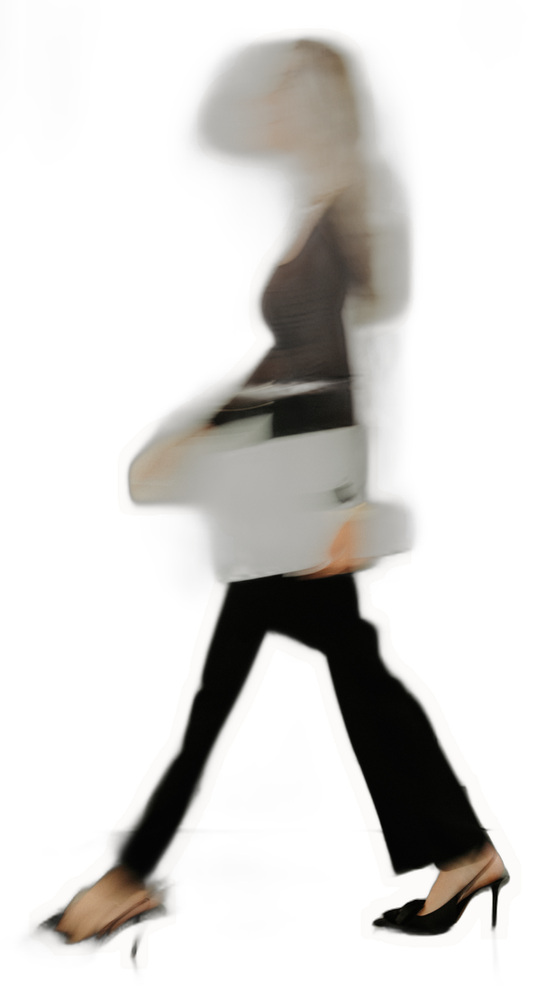
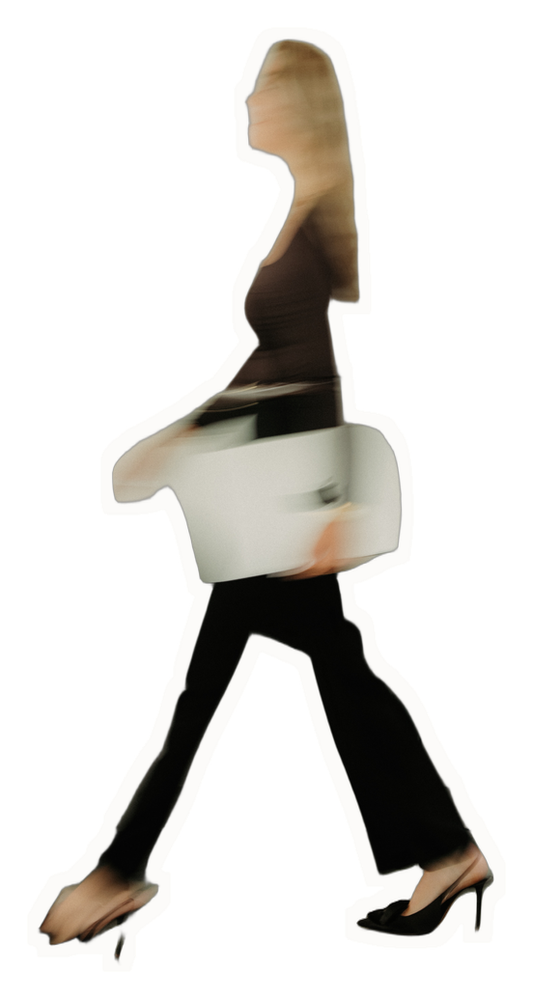
honey v2: every cut out from BiRefNet in its own process, manifest written again, disco at full width
Claude-Session: https://claude.ai/code/session_01CwL7sdau95CiZ3kYi3DkV3

Changed region(s): [[0.06, 0.031, 0.9306, 0.961], [0.5704, 0.651, 0.6604, 0.775]]

diff --git a/state/prototypes/honeyitshandled/site-v2/index.html b/state/prototypes/honeyitshandled/site-v2/index.html
@@ -146,10 +146,10 @@
 <section class="eli" id="elise" data-tone="blue" aria-labelledby="h-eli">
   <div class="eli-stage" data-eli>
     <h2 id="h-eli" class="eli-h">Type A, so you don’t have to be.</h2>
-    <figure class="stk s-book" style="--d:.9;--r:-5deg"><img class="stk-i" src="media/elise-book-560.webp" srcset="media/elise-book-560.webp 384w, media/elise-book-1000.webp 685w" sizes="(max-width: 700px) 46vw, 30vw" width="685" height="1000" alt="Elise Laeven with a book balanced on her head, a laptop in one hand and a glass and a pair of heels in the other" loading="lazy" decoding="async"></figure>
-    <figure class="stk s-phone" style="--d:.5;--r:4deg"><img class="stk-i" src="media/elise-phone-560.webp" srcset="media/elise-phone-560.webp 450w, media/elise-phone-1000.webp 803w" sizes="(max-width: 700px) 40vw, 22vw" width="803" height="1000" alt="Elise on her phone with a gold folder under her arm" loading="lazy" decoding="async"></figure>
-    <figure class="stk s-sit" style="--d:.7;--r:-2deg"><img class="stk-i" src="media/elise-sit-560.webp" srcset="media/elise-sit-560.webp 429w, media/elise-sit-1000.webp 766w" sizes="(max-width: 700px) 42vw, 24vw" width="766" height="1000" alt="Elise sitting, smiling" loading="lazy" decoding="async"></figure>
-    <figure class="stk s-walk" style="--d:.35;--r:6deg"><img class="stk-i" src="media/elise-walk-560.webp" srcset="media/elise-walk-560.webp 306w, media/elise-walk-1000.webp 546w" sizes="(max-width: 700px) 30vw, 16vw" width="546" height="1000" alt="Elise walking past in a blur" loading="lazy" decoding="async"></figure>
+    <figure class="stk s-book" style="--d:.9;--r:-5deg"><img class="stk-i" src="media/elise-book-560.webp" srcset="media/elise-book-560.webp 385w, media/elise-book-1000.webp 688w" sizes="(max-width: 700px) 46vw, 30vw" width="688" height="1000" alt="Elise Laeven with a book balanced on her head, a laptop in one hand and a glass and a pair of heels in the other" loading="lazy" decoding="async"></figure>
+    <figure class="stk s-phone" style="--d:.5;--r:4deg"><img class="stk-i" src="media/elise-phone-560.webp" srcset="media/elise-phone-560.webp 451w, media/elise-phone-1000.webp 805w" sizes="(max-width: 700px) 40vw, 22vw" width="805" height="1000" alt="Elise on her phone with a gold folder under her arm" loading="lazy" decoding="async"></figure>
+    <figure class="stk s-sit" style="--d:.7;--r:-2deg"><img class="stk-i" src="media/elise-sit-560.webp" srcset="media/elise-sit-560.webp 433w, media/elise-sit-1000.webp 773w" sizes="(max-width: 700px) 42vw, 24vw" width="773" height="1000" alt="Elise sitting, smiling" loading="lazy" decoding="async"></figure>
+    <figure class="stk s-walk" style="--d:.35;--r:6deg"><img class="stk-i" src="media/elise-walk-560.webp" srcset="media/elise-walk-560.webp 298w, media/elise-walk-1000.webp 533w" sizes="(max-width: 700px) 30vw, 16vw" width="533" height="1000" alt="Elise walking past in a blur" loading="lazy" decoding="async"></figure>
   </div>
   <div class="wrap eli-g">
     <div class="eli-t">
@@ -167,7 +167,7 @@
 <section class="doors" id="doors" data-tone="dark" aria-labelledby="h-doors">
   <div class="doors-pin">
     <div class="behind">
-      <div class="bh bh-cinco"><picture><source type="image/webp" srcset="media/disco-600.webp 600w, media/disco-1100.webp 1100w" sizes="100vw"><img src="media/disco-600.jpg" srcset="media/disco-600.jpg 600w, media/disco-1100.jpg 1100w" sizes="100vw" width="1100" height="1650" alt="" loading="lazy" decoding="async"></picture></div>
+      <div class="bh bh-cinco"><picture><source type="image/webp" srcset="media/disco-600.webp 600w, media/disco-1100.webp 1100w, media/disco-1365.webp 1365w" sizes="100vw"><img src="media/disco-600.jpg" srcset="media/disco-600.jpg 600w, media/disco-1100.jpg 1100w, media/disco-1365.jpg 1365w" sizes="100vw" width="1365" height="2048" alt="" loading="lazy" decoding="async"></picture></div>
       <div class="bh bh-pro"><picture><source type="image/webp" srcset="media/hall-700.webp 700w, media/hall-1067.webp 1067w" sizes="100vw"><img src="media/hall-700.jpg" srcset="media/hall-700.jpg 700w, media/hall-1067.jpg 1067w" sizes="100vw" width="1067" height="1048" alt="" loading="lazy" decoding="async"></picture></div>
       <p class="behind-l"><span class="p-only p-wedding p-private">And then, the night came alive.</span><span class="p-only p-company">570+ guests. One iconic venue.</span></p>
     </div>

diff --git a/state/prototypes/honeyitshandled/build-v2/art/prep_v2.py b/state/prototypes/honeyitshandled/build-v2/art/prep_v2.py
@@ -106,29 +106,16 @@ def main():
             c = cyanotype(im); e2 = dict(e, note=e['note'] + ', our cyanotype of her photo in her blue (the details layer)')
             save_photo(key + '-cy', c, widths, e2); man[key + '-cy'] = e2
 
-    # cut outs with her sticker edge
-    from rembg import remove, new_session
-    sess = new_session('birefnet-general')
+    # cut outs with her sticker edge. BiRefNet needs several GB, and four in one process got the whole prep killed
+    # (exit 137) after the first one while the manifest was never written, so each cut out runs in its own process and
+    # leaves a sidecar the manifest is built from. HIH_RECUT=1 makes them again.
+    import subprocess, sys
     for key, i, page, alt, paint in CUTS:
-        p, fname = src(i)
-        arr = np.asarray(Image.open(p).convert('RGB')).copy()
-        edit = None
-        if paint:
-            arr, n = paint_out_mark(arr); edit = f'Apple mark on the laptop lid painted out ({n} pixels, OpenCV Telea inpaint from the lid round it)'
-        im = Image.fromarray(arr); im.thumbnail((1500, 1500), Image.LANCZOS)
-        cut = remove(im, session=sess)
-        bb = cut.split()[-1].point(lambda v: 255 if v > 40 else 0).getbbox()
-        pad = 40
-        cut = cut.crop((max(0, bb[0] - pad), max(0, bb[1] - pad), min(cut.size[0], bb[2] + pad), min(cut.size[1], bb[3] + pad)))
-        st = sticker(cut, 13)
-        sizes = []
-        for h in (560, 1000):
-            w = round(st.size[0] * h / st.size[1]); r = st.resize((w, h), Image.LANCZOS)
-            r.save(os.path.join(OUT, f'{key}-{h}.webp'), quality=82, method=6)
-            r.save(os.path.join(OUT, f'{key}-{h}.png'), optimize=True)
-            sizes.append([w, h])
-        man[key] = {'id': fname, 'url': 'https://static.wixstatic.com/media/' + fname, 'page': page, 'altThere': alt,
-                    'sha256': sha(p), 'crop': 'cut out with rembg birefnet-general, white sticker edge 13 px', 'edit': edit, 'sizes': sizes}
+        side = os.path.join(OUT, key + '.cut.json')
+        if os.environ.get('HIH_RECUT') or not os.path.isfile(side):
+            r = subprocess.run([sys.executable, os.path.abspath(__file__), 'cut', key])
+            assert r.returncode == 0 and os.path.isfile(side), f'cut out {key} failed, exit {r.returncode}'
+        man[key] = json.load(open(side))
 
     # her envelope stickers (PNG artwork on /weddings, / and /contact)
     for key, i, page, alt in [('env-card', '3f8b9038', '/ and /weddings', 'HIH-ENVELOPPE-2'), ('env-open', '79da123c', '/about and /contact', "Honey it's Handled_Enveloppe")]:
@@ -173,5 +160,35 @@ def main():
     json.dump(man, open(os.path.join(OUT, 'manifest.json'), 'w'), indent=1)
     print(len(man), 'entries')
 
+def cut_one(key):
+    """One cut out, in its own process. Writes <key>-560 and -1000 as webp (and png, kept for the record) and a sidecar."""
+    from rembg import remove, new_session
+    key_, i, page, alt, paint = [c for c in CUTS if c[0] == key][0]
+    p, fname = src(i)
+    arr = np.asarray(Image.open(p).convert('RGB')).copy()
+    edit = None
+    if paint:
+        arr, n = paint_out_mark(arr); edit = f'Apple mark on the laptop lid painted out ({n} pixels, OpenCV Telea inpaint from the lid round it)'
+    im = Image.fromarray(arr); im.thumbnail((1400, 1400), Image.LANCZOS)
+    cut = remove(im, session=new_session('birefnet-general'))
+    bb = cut.split()[-1].point(lambda v: 255 if v > 40 else 0).getbbox()
+    pad = 40
+    cut = cut.crop((max(0, bb[0] - pad), max(0, bb[1] - pad), min(cut.size[0], bb[2] + pad), min(cut.size[1], bb[3] + pad)))
+    st = sticker(cut, 13)
+    sizes = []
+    for h in (560, 1000):
+        w = round(st.size[0] * h / st.size[1]); r = st.resize((w, h), Image.LANCZOS)
+        r.save(os.path.join(OUT, f'{key}-{h}.webp'), quality=82, method=6)
+        r.save(os.path.join(OUT, f'{key}-{h}.png'), optimize=True)
+        sizes.append([w, h])
+    json.dump({'id': fname, 'url': 'https://static.wixstatic.com/media/' + fname, 'page': page, 'altThere': alt, 'sha256': sha(p),
+               'crop': 'cut out with rembg birefnet-general, white sticker edge 13 px', 'edit': edit, 'sizes': sizes},
+              open(os.path.join(OUT, key + '.cut.json'), 'w'), indent=1)
+    print('cut', key, sizes)
+
 if __name__ == '__main__':
-    main()
+    import sys
+    if len(sys.argv) > 2 and sys.argv[1] == 'cut':
+        cut_one(sys.argv[2])
+    else:
+        main()

diff --git a/state/prototypes/honeyitshandled/research/art-direction-v2.md b/state/prototypes/honeyitshandled/research/art-direction-v2.md
@@ -108,7 +108,7 @@ is the night when the doors open. Two layers all the way down, the calm front (y
 4. **The doors are her HH** ("So when the doors open"). Her monogram is two letters H. As the visitor scrolls, the two
    halves of the HH become two tall lacquer doors that part, light comes through the gap, and her nights are behind them.
 5. **Her nights, full bleed, numbers as architecture.** The Handelsbeurs under its iron and glass roof edge to edge with
-   570+ set the height of the screen, and Cinco Cero with 125 the same size, her own aftermovie of the dance floor playing
+   570+ set the height of the screen, and Cinco Cero with 125 the same size, the Cinco Cero aftermovie from her page (the dance floor) playing
    inside the figures. The visitor's own number is the third figure, dragged along a line where 125 and 570 are marked.
 6. **Elise as stickers** ("Type A, so you don't have to be."). Her own studio photos cut out with a white die cut edge,
    like the stickers she had printed, scattered on her blue round one line, drifting at different depths with the
@@ -136,7 +136,7 @@ is the night when the doors open. Two layers all the way down, the calm front (y
 
 Her photos only, from honeyitshandled.com, the originals her pages serve (static.wixstatic.com/media/<id>), downloaded
 26 Oct. build-v2/media/manifest.json has every file's source id, the page it sits on today, its alt text there, the
-sha256 of the original and any crop or edit. Her Cinco Cero aftermovie for the film (her own page, /cincocero). No stock
+sha256 of the original and any crop or edit. The film is the Cinco Cero aftermovie on her /cincocero page, never claimed as her own footage. No stock
 photos and no stock film, a stock couple would read as her wedding. Her /weddings photos stay out (origin unknown).
 
 Third party check, every photo zoomed at full size. Two found that v1 missed or that are new.
